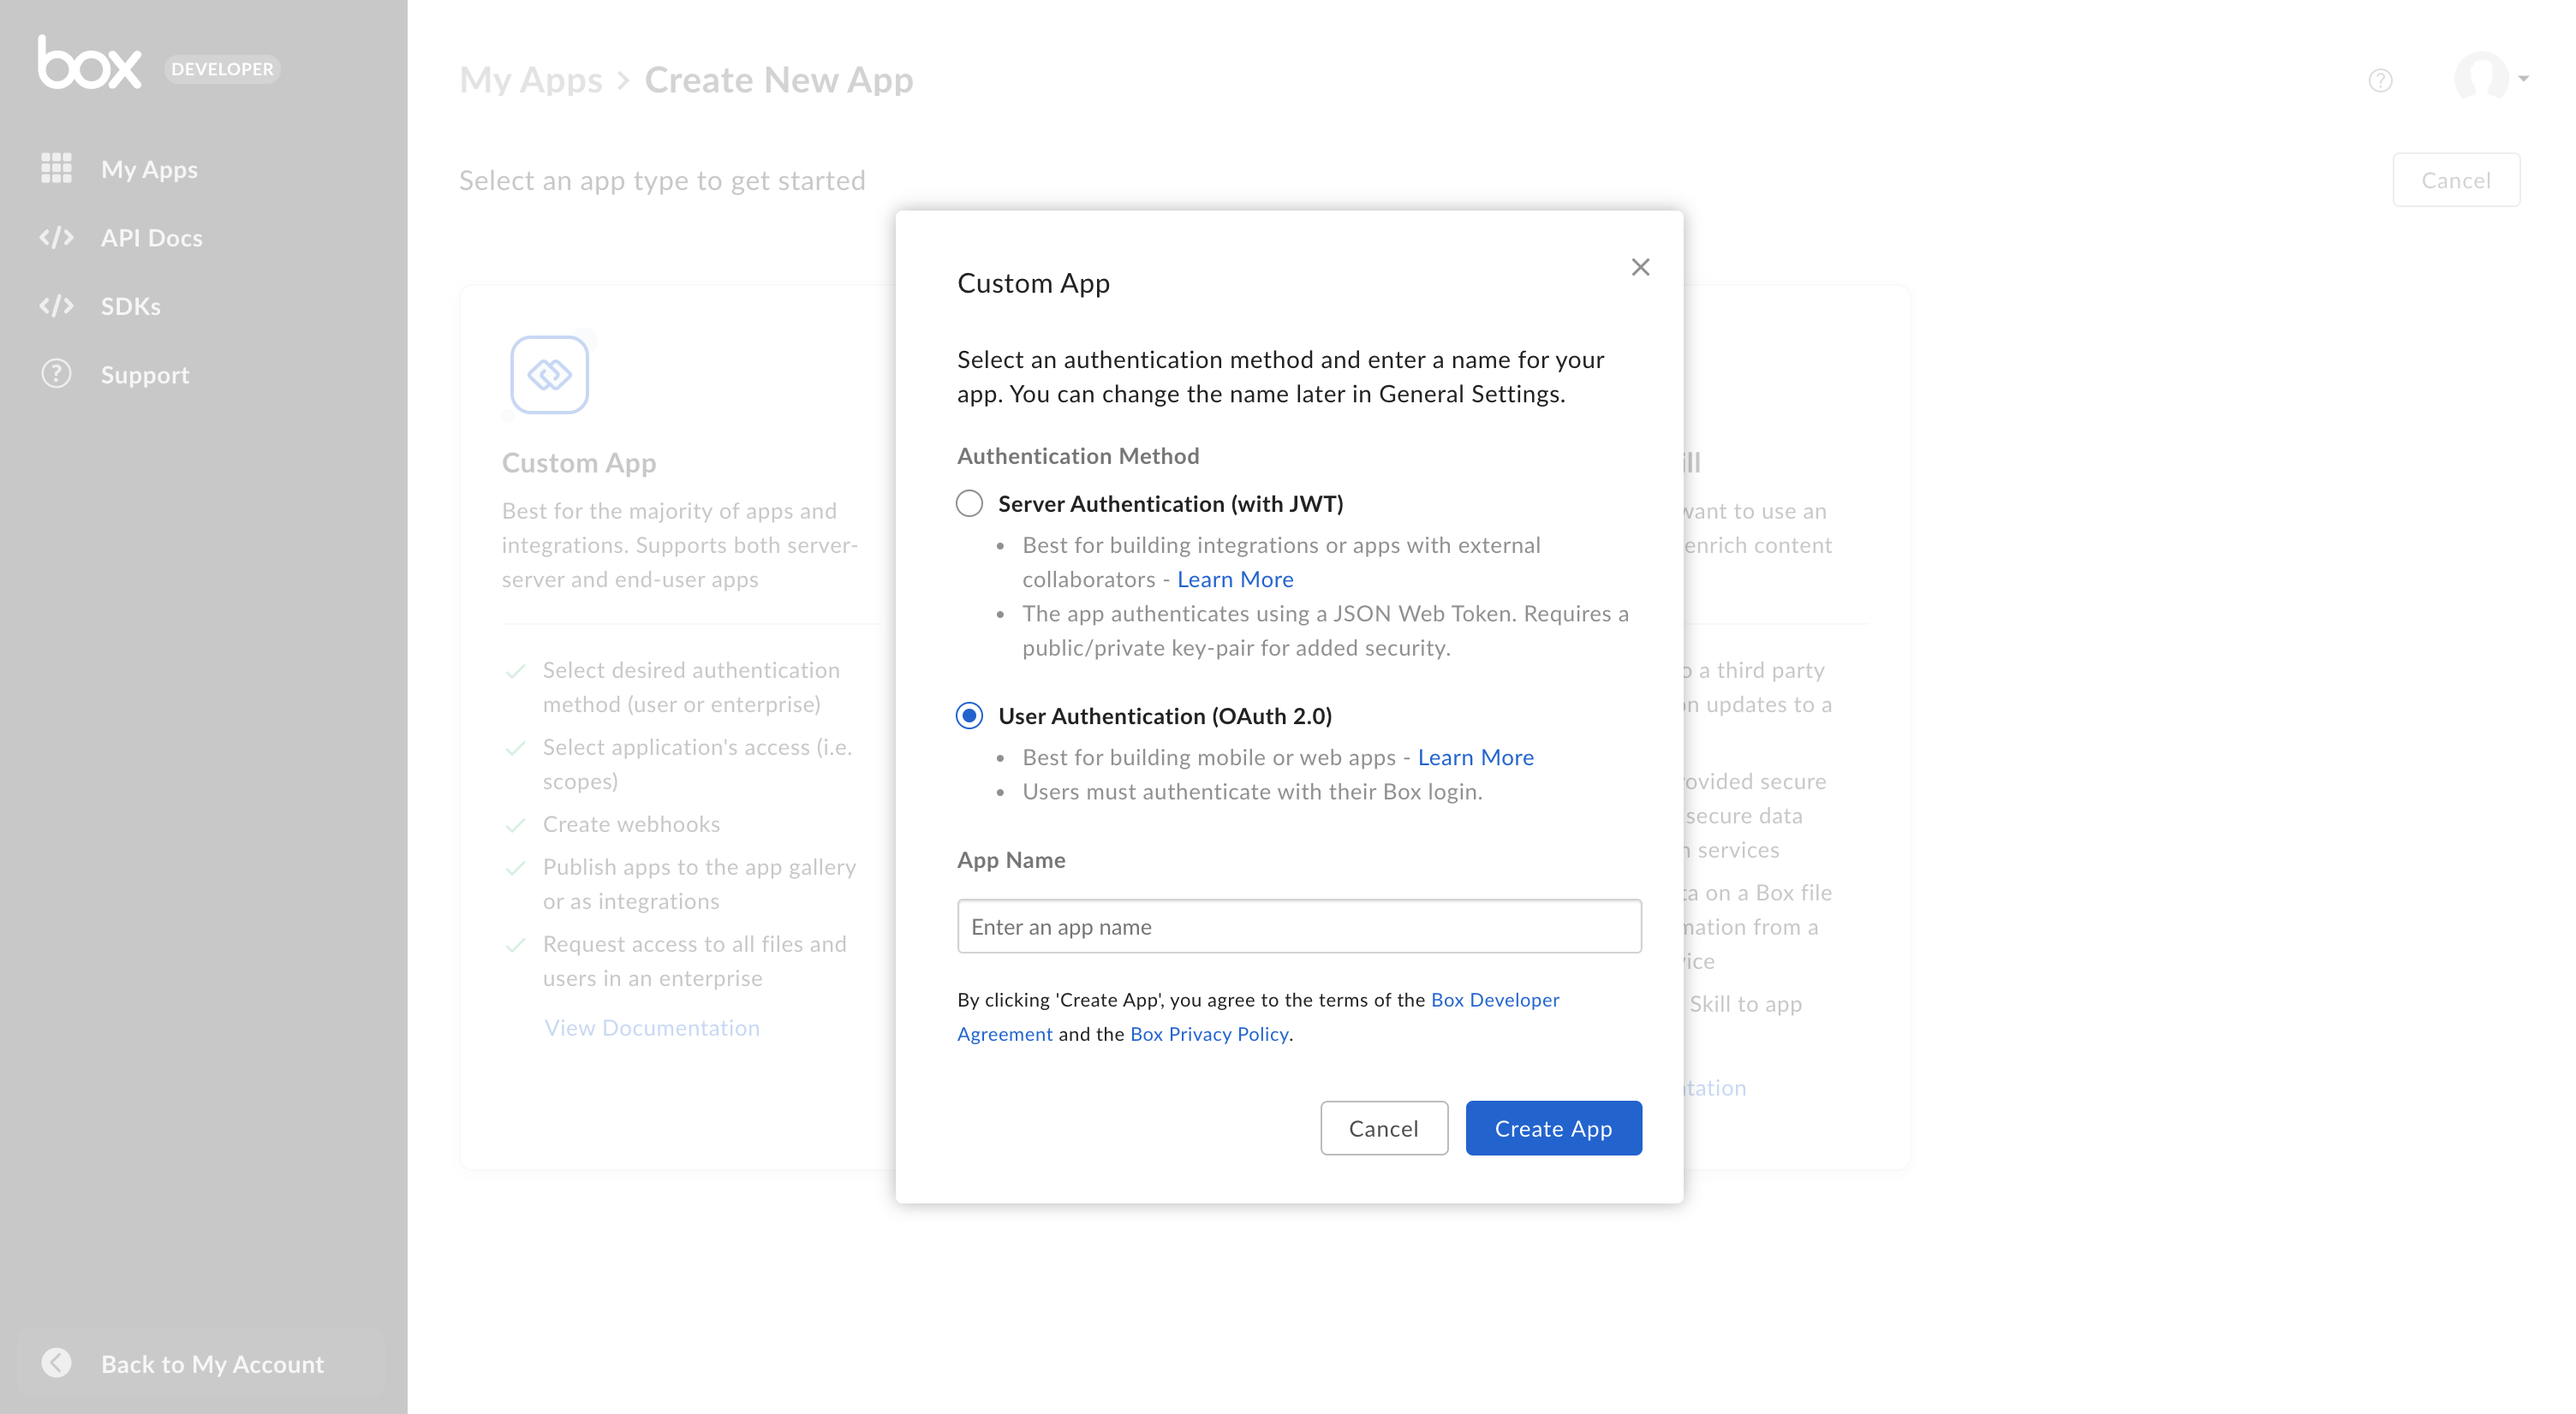
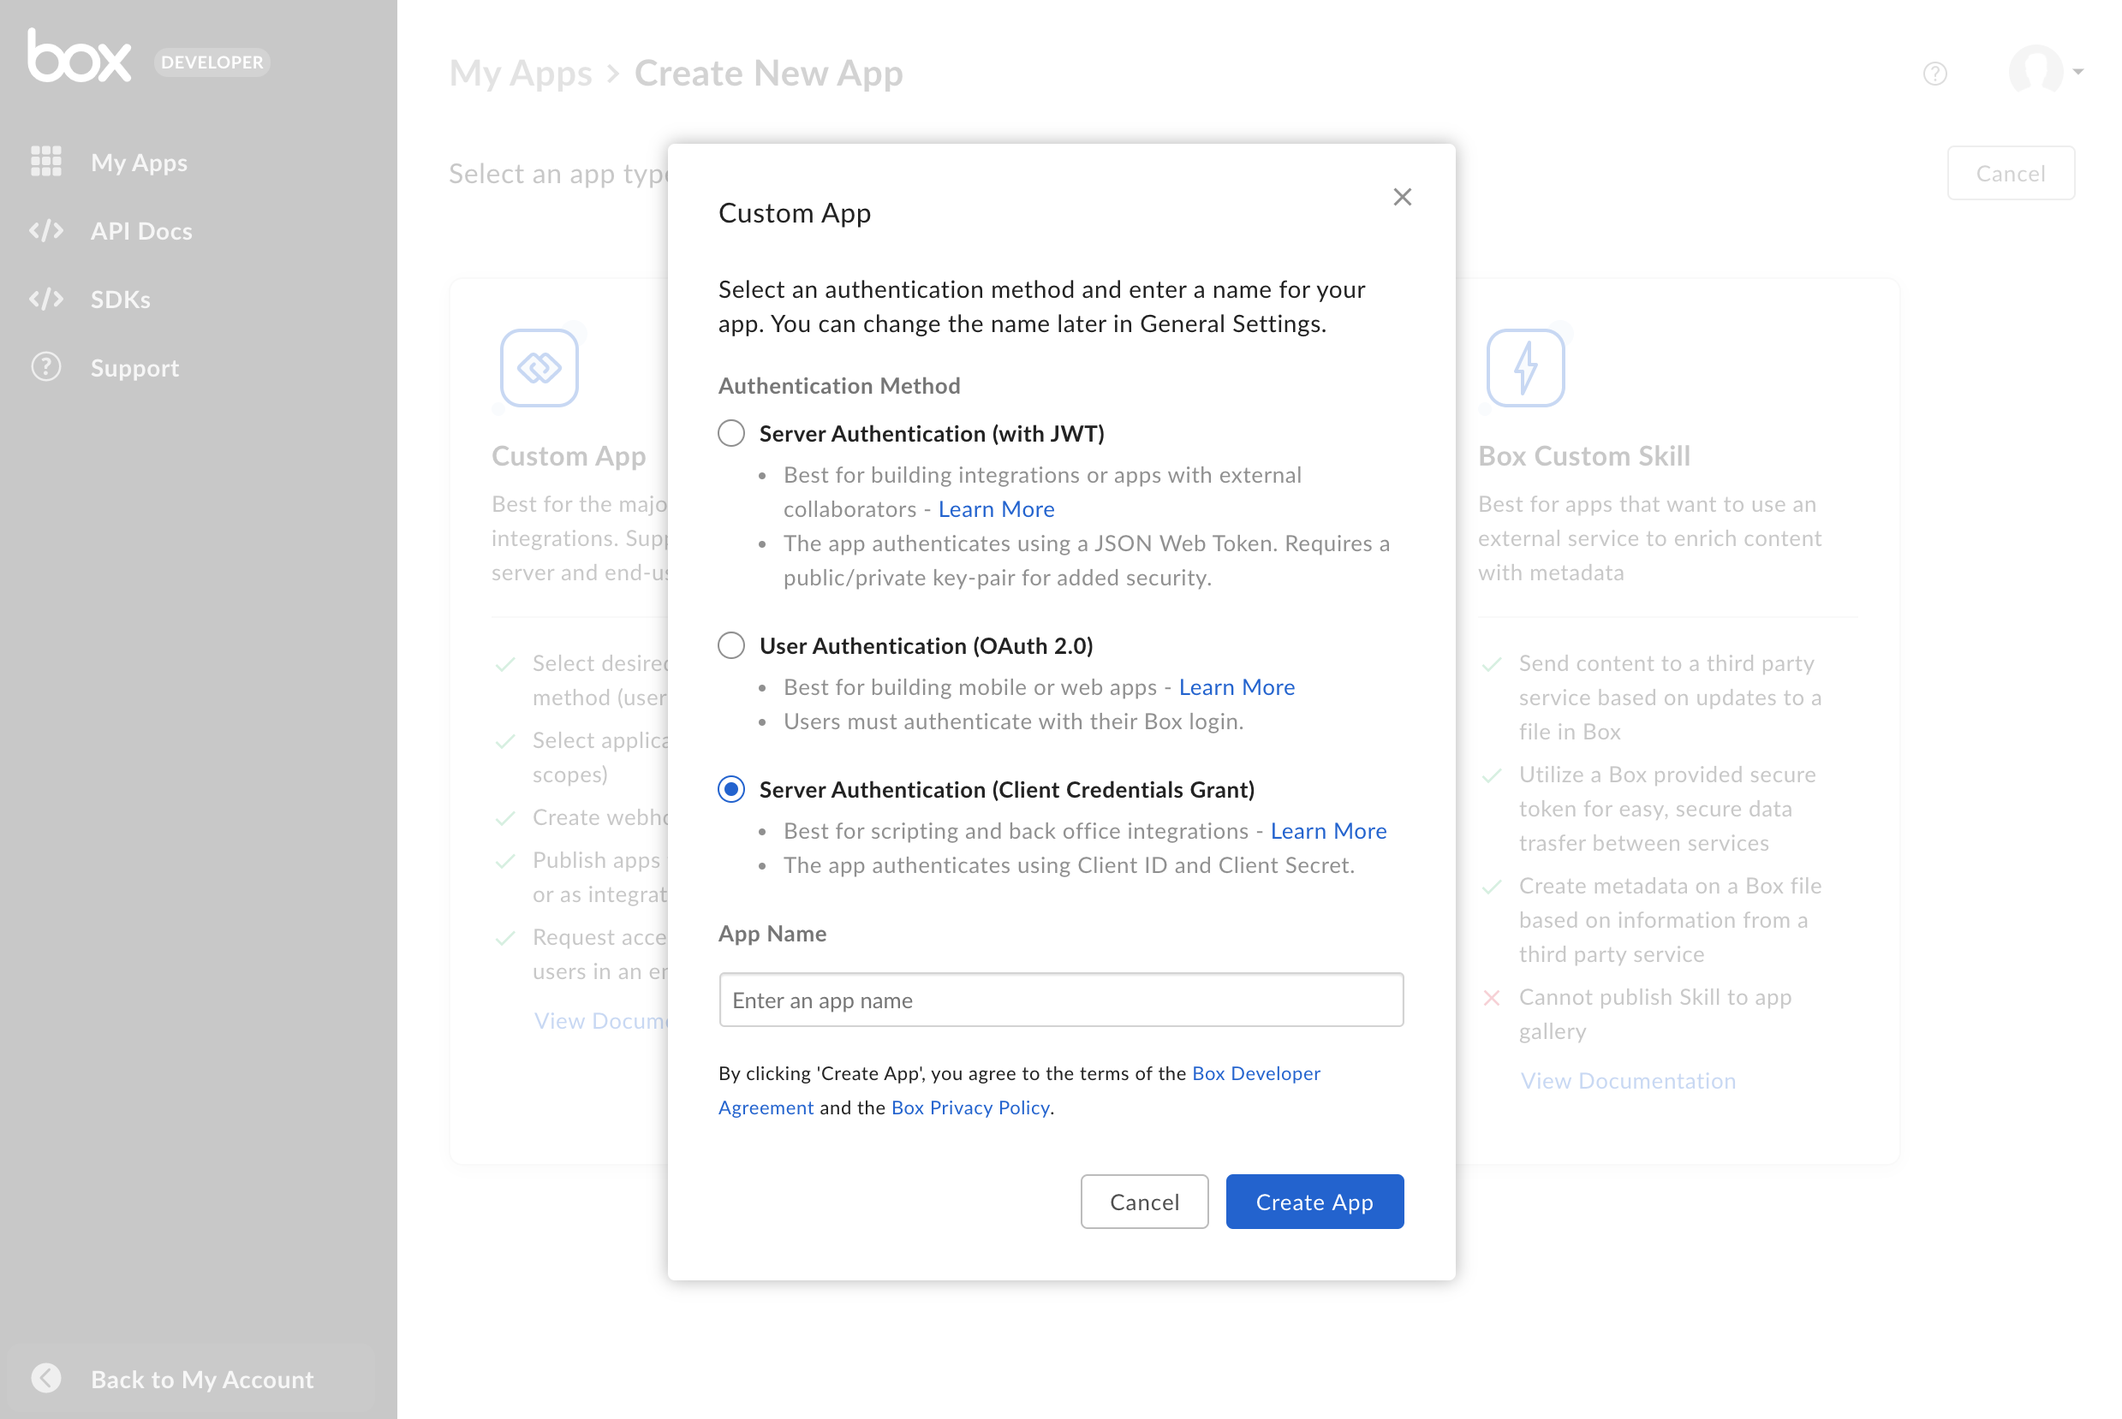
final changes

diff --git a/content/guides/authentication/jwt/without-sdk.md b/content/guides/authentication/jwt/without-sdk.md
@@ -20,21 +20,21 @@ This guide takes you through JWT authentication without using a Box SDK.
 JWT does not require end-user interaction and is designed to authenticate
 directly with the Box API. 
 
-To verify an application's identity, you can either use a: 
+There are two ways you can verify an application's permissions:
 
-1. public/private keypair
-1. client ID and client secret
+- using a public and private key pair
+- using a client id and client secret (Client Credentials Grant)
 
-Using your client ID and client secret is the easiest and fastest verification
+Using a Client Credentials Grant is the easiest and fastest verification
 method for prototyping or scripting against your Box enterprise. Regardless of
 the verification method you select from above, the end result is an Access Token
-that can be used to make API calls on behalf of the application. 
+which can be used to make API calls on behalf of the application. 
 
 To learn how to use this token visit our guide on [Making API
 calls](g://api-calls).
 
 <Message notice>
-  By default, the access token acquired with JWT is tied to the Service
+  By default, the Access Token acquired with JWT is tied to the Service
   Account for the application. Any API call made with this token will come
   from the application. This account does not have access to any existing files
   or folders until the application's Service Account is added as a collaborator.
@@ -45,17 +45,17 @@ using the `as-user` header or by requesting a
 
 </Message>
 
-## Verification using a keypair
+## Using a key pair
 
 Follow the steps below if you would like to verify your application's identity
-using a public/private keypair.
+using a public and private key pair.
 
 ### Prerequisites
 
-1. A Custom Application using JWT authentication within the Box
+- A Custom Application using JWT authentication within the Box
  [Developer Console][devconsole]
-1. A private key [configuration file][configfile] named `config.json`
-1. Ensure your application is authorized within the Box Admin Console
+- A private key [configuration file][configfile] named `config.json`
+- Ensure your application is authorized within the Box Admin Console
 
 ### 1. Read JSON configuration
 
@@ -804,18 +804,18 @@ $access_token = json_decode($data)->access_token;
   </Tab>
 </Tabs>
 
-## Verification using a client ID and client secret
+## Client credentials grant
 
 Follow the steps below if you would like to verify your application's identity
 using a client ID and client secret.
 
 ### Prerequisites
 
-1. A Custom Application using Client Credentials Grant authentication
+- A Custom Application using Client Credentials Grant authentication
  within the Box [Developer Console][devconsole]
-1. 2FA enabled on your Box account in order to view/copy your client secret from
+- 2FA enabled on your Box account in order to view/copy your client secret from
 the configuration tab
-1. Ensure your application is authorized within the Box Admin Console
+- Ensure your application is authorized within the Box Admin Console
 
 <Message notice>
 
@@ -832,10 +832,14 @@ request body needs to contain your client ID and client Secret. Set the
 `grant_type` to `client_credentials`.
 
 If you would like to authenticate as the application's [Service Account][sa]:
-set`box_subject_type` to `enterprise` and `box_subject_id` to the enterprise ID
+
+- set `box_subject_type` to `enterprise`
+- set `box_subject_id` to the enterprise ID
 
 If you would like to authenticate as a Managed User:
-set `box_subject_type` to `user` and `box_subject_id` to the user ID
+
+- set `box_subject_type` to `user` 
+- set `box_subject_id` to the user ID
 
 <Tabs>
   <Tab title='cURL'>
@@ -859,7 +863,7 @@ curl --location --request POST ‘https://api.box.com/oauth2/token’ \
 
 ## Code Samples
 
-All of the code in this guide is available on [GitHub][samples].
+The code in this guide is available on [GitHub][samples].
 
 [samples]: https://github.com/box-community/samples-docs-authenticate-with-jwt-api
 [2fa]: https://support.box.com/hc/en-us/articles/360043697154-Two-Factor-Authentication-Set-Up-for-Your-Account

diff --git a/content/guides/applications/custom-apps/jwt-setup.md b/content/guides/applications/custom-apps/jwt-setup.md
@@ -47,19 +47,26 @@ prompt a selection for the next step.
 
 ### 3. Select the type of authentication and app name
 
-Select **Server Authentication (with JWT)** and provide a unique name for your
-application. Click **Create App**.
+Select **Server Authentication (with JWT)** if you would like to verify 
+application identity via a key pair. Select 
+**Server Authentication (Client Credentials Grant)** if you would like to verify
+application identity via a client id and client secret. Then, provide a name
+for your application and click **Create App**.
+
+Once you make a selection, you will not be able to change to a different 
+authentication method without creating a new application.
 
 <ImageFrame border width="600" center>
   ![App name form](../images/custom-app-selection-jwt.png)
 </ImageFrame>
 
-## JWT keypair
+## Public and private key pair
 
-JWT authentication works through a public/private RSA keypair.
-Once a Custom App is created leveraging JWT authentication, a keypair can
-be generated via the [Developer Console][devconsole] or you can generate your
-own and supply Box with the public key.
+Once a Custom App is created leveraging Server Authentication with JWT, a key 
+pair can be generated via the configuration tab within the
+[Developer Console][devconsole]. Alternatively, you can generate your
+own and supply Box with the public key. Regardless of the method you select,
+your Box account will need to have [2FA][2fa] enabled for security purposes.
 
 ### Generate a keypair (Recommended)
 
@@ -87,8 +94,8 @@ you can move to your application code.
 
 ### Manually add keypair
 
-Alternatively, you may generate your own keypair and then upload the public key
-to the [Developer Console][devconsole].
+Alternatively, you may generate your own keypair and upload the public key to
+the [Developer Console][devconsole].
 
 To create a keypair using OpenSSL, open a terminal window and run the
 following commands.
@@ -104,7 +111,7 @@ openssl rsa -in private.pem -outform PEM -pubout -out public.pem
  Windows users can install and use the [Cygwin][cygwin] package to run OpenSSL.
 </Message>
 
-Then, navigate to the configuration tab for your application in the
+Then, navigate to the configuration tab for your application within the
 [Developer console][devconsole] and scroll down to the
 **Add and Manage Public Keys** section.
 
@@ -117,11 +124,11 @@ steps above and click **Verify and Save**.
 
 ## App Authorization
 
-Once a keypair is successfully added to your application your Box enterprise
-Admin needs to authorize the application within the Box Admin Console.
+Before the application can be used, a Box Admin needs to authorize the
+application within the Box Admin Console.
 
 Navigate to the **General Settings** tab for your application within the
-[developer console][devconsole] and scroll down to the **App Authorization**
+[Developer Console][devconsole] and scroll down to the **App Authorization**
 section.
 
 <ImageFrame border width="400" center>
@@ -134,14 +141,12 @@ approval. More information on this process is available in our
 
 ### Re-authorization after making configuration changes
 
-When the application's scopes or access level change the application needs to be
-re-authorized. Repeat the process above and request a new Access Token for the
-new changes to take effect.
+As a general rule of thumb, applications require re-authorization, in the Box
+Admin console, after making any configuration changes within the Developer
+Console. If this step is skipped, any generated Access Tokens will not reflect
+the configuration changes. 
 
 ## Basic configuration
-
-Before the application can be used, some additional configuration is
-required.
 
 ### Application Access
 
@@ -189,3 +194,4 @@ section at the bottom of the **Configuration** tab in the
 [cygwin]: http://www.cygwin.com/
 [app-auth]: https://community.box.com/t5/Managing-Developer-Sandboxes/Authorizing-Apps-in-the-Box-App-Approval-Process/ta-p/77293
 [jwt]: g://authentication/jwt
+[2fa]: https://support.box.com/hc/en-us/articles/360043697154-Two-Factor-Authentication-Set-Up-for-Your-Account

diff --git a/content/guides/authentication/access-tokens/index.md b/content/guides/authentication/access-tokens/index.md
@@ -23,14 +23,16 @@ The following shows how each application type is expected to create an Access
 Token.
 
 <!-- markdownlint-disable line-length -->
-| Box Application Type               | How to get Access Token                          |
-| ---------------------------------- | ------------------------------------------------ |
-| Custom App + OAuth 2.0             | [Explicit user grant][oauth2-with-sdk]           |
-| Custom App + JWT                   | [Exchange a JWT assertion][jwt-with-sdk]         |
-| Limited Access App + App Token     | Configure token in [Developer Console][devcon]           |
-| Custom Skill                       | Access Token in event payload                    |
+| Box Application Type                  | How to get Access Token                          |
+| ------------------------------------- | ------------------------------------------------ |
+| Custom App + OAuth 2.0                | [Explicit user grant][oauth2-with-sdk]           |
+| Custom App + JWT                      | [Exchange a JWT assertion][jwt-with-sdk]         |
+| Custom App + Client Credentials Grant | [Use client ID and client secret][clientcred]    |
+| Limited Access App + App Token        | Configure token in [Developer Console][devcon]   |
+| Custom Skill                          | Access Token in event payload                    |
 <!-- markdownlint-enable line-length -->
 
 [jwt-with-sdk]: g://authentication/jwt/with-sdk
 [oauth2-with-sdk]: g://authentication/oauth2/with-sdk
 [devcon]: https://app.box.com/developers/console
+[clientcred]: g://authentication/jwt/without-sdk/#client-credentials-grant

diff --git a/content/guides/authentication/jwt/index.md b/content/guides/authentication/jwt/index.md
@@ -27,18 +27,19 @@ Server-side authentication using JWT is only available to the Custom Application
 interaction and, if granted the proper privileges, can be used
 to act on behalf of any user in an enterprise. 
 
-To verify an application's permissions, you can either use a: 
+There are two ways you can verify an application's permissions:
 
-1. public/private keypair
-1. client id and client secret
+- using a public and private key pair
+- using a client id and client secret (Client Credentials Grant)
 
+At this time, our SDKs do not support the Client Credential Grant.
 To learn more about these options visit our guide on using
 [JWT without SDKs][jwtnosdk].
 
 Upon authorizing a JWT application in the Box Admin Console, a 
-[Service Account][user-types]is automatically generated and is the default token
-used when authenticating. This is an admin-like user and why applications
-leveraging JWT require explicit Box Admin approval before use.
+[Service Account][user-types] is automatically generated and is the default
+Access Token used when authenticating. This is an admin-like user and why
+applications leveraging JWT require explicit Box Admin approval before use.
 
 ## When to use JWT
 

diff --git a/content/guides/authentication/select.md b/content/guides/authentication/select.md
@@ -59,10 +59,14 @@ Client-side authentication is the ideal authentication method for apps that:
 
 ### Server-side JWT
 
-Server-side authentication using JSON Web Tokens (JWT) does not involve a
-user in the authorization flow and therefore can be used to act on behalf of any
-user in an enterprise. JWT uses a public/private key pair verify the
-application's permissions.
+This authentication method does not require end-user
+interaction and, if granted the proper privileges, can be used
+to act on behalf of any user in an enterprise. 
+
+Server-side authentication using JSON Web Tokens (JWT) does not require end-user
+interaction and, if granted the proper privileges, can be used to act on behalf
+of any user in an enterprise. You can use a public and private key pair or your
+client ID and client secret to verify the application's permissions.
 
 <ImageFrame center shadow border>
 
